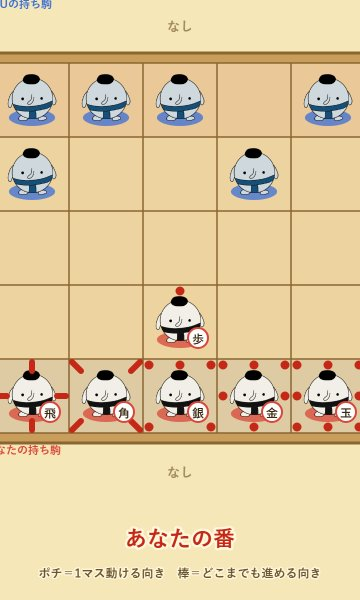
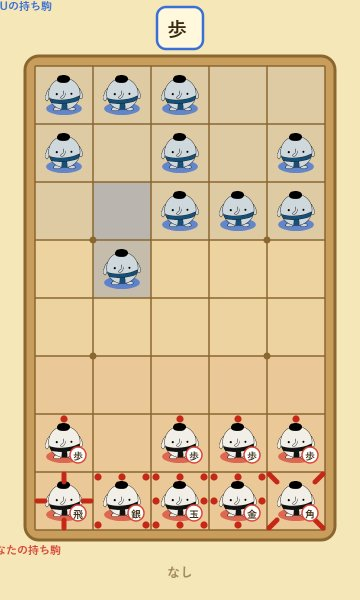
はなりきし将棋: 盤を5x8に、自陣3段・歩5枚・成れる段を3段に

diff --git a/shogi/index.html b/shogi/index.html
@@ -87,7 +87,7 @@
   }
 
   // ================= 将棋のルール =================
-  // 盤は 5x5。マスの値: 0=空、符号が持ち主（+が自分=下、-がCPU=上）、絶対値が駒
+  // 盤は 横5 x 縦8。マスの値: 0=空、符号が持ち主（+が自分=下、-がCPU=上）、絶対値が駒
   const P = 1, S = 2, G = 3, B = 4, R = 5, K = 6, PRO = 8;
   const NAME = { 1: '歩', 2: '銀', 3: '金', 4: '角', 5: '飛', 6: '玉', 9: 'と', 10: '全', 12: '馬', 13: '龍' };
   const LONG = { 1: '歩兵', 2: '銀将', 3: '金将', 4: '角行', 5: '飛車', 6: '玉将' };
@@ -99,29 +99,31 @@
     1: [[0], []], 2: [[0, 1, 7, 3, 5], []], 3: GOLD, 4: [[], [1, 3, 5, 7]], 5: [[], [0, 2, 4, 6]],
     6: [[0, 1, 2, 3, 4, 5, 6, 7], []], 9: GOLD, 10: GOLD, 12: [[0, 2, 4, 6], [1, 3, 5, 7]], 13: [[1, 3, 5, 7], [0, 2, 4, 6]],
   };
+  const N = 40;                 // マスの数（横5 x 縦8）
   const NB = [];
-  for (let i = 0; i < 25; i++) {
+  for (let i = 0; i < N; i++) {
     NB[i] = [];
     for (let d = 0; d < 8; d++) {
       const r = (i / 5 | 0) + DR[d], c = i % 5 + DC[d];
-      NB[i][d] = r < 0 || r > 4 || c < 0 || c > 4 ? -1 : r * 5 + c;
+      NB[i][d] = r < 0 || r > 7 || c < 0 || c > 4 ? -1 : r * 5 + c;
     }
   }
   const sgn = v => v > 0 ? 1 : v < 0 ? -1 : 0;
   const canPro = c => c === P || c === S || c === B || c === R;
-  const zone = (i, side) => side === 1 ? i < 5 : i >= 20;     // 一番奥の段
+  const zone = (i, side) => side === 1 ? i < 15 : i >= 25;    // 相手の陣地（奥の3段）。ここに入る・出ると成れる
+  const lastRow = (i, side) => side === 1 ? i < 5 : i >= 35;  // 一番奥の段（歩はここで必ず成る）
   const hi = side => side === 1 ? 0 : 1;
 
   // 指し手: { f: 元のマス（打つときは -1）, t: 行き先, p: 成るか, c: 打つ駒 }
-  function gen(st, side, out, capOnly) {
+  function gen(st, side, out, capOnly, noDrop) {
     const bd = st.bd;
     const add = (i, j, c) => {
       if (canPro(c) && (zone(i, side) || zone(j, side))) {
         out.push({ f: i, t: j, p: true });
-        if (!(c === P && zone(j, side))) out.push({ f: i, t: j, p: false });   // 歩は奥で必ず成る
+        if (!(c === P && lastRow(j, side))) out.push({ f: i, t: j, p: false });   // 歩は奥で必ず成る
       } else out.push({ f: i, t: j, p: false });
     };
-    for (let i = 0; i < 25; i++) {
+    for (let i = 0; i < N; i++) {
       const v = bd[i]; if (v * side <= 0) continue;
       const c = Math.abs(v), [stp, sl] = MOVES[c];
       for (const d0 of stp) {
@@ -138,14 +140,14 @@
         }
       }
     }
-    if (capOnly) return out;
+    if (capOnly || noDrop) return out;
     const h = st.h[hi(side)];
-    for (let c = 1; c <= 5; c++) if (h[c]) for (let j = 0; j < 25; j++) {
+    for (let c = 1; c <= 5; c++) if (h[c]) for (let j = 0; j < N; j++) {
       if (bd[j]) continue;
       if (c === P) {
-        if (zone(j, side)) continue;                                // 行き所のない歩
+        if (lastRow(j, side)) continue;                             // 行き所のない歩
         let nifu = false;
-        for (let k = j % 5; k < 25; k += 5) if (bd[k] === side * P) nifu = true;
+        for (let k = j % 5; k < N; k += 5) if (bd[k] === side * P) nifu = true;
         if (nifu) continue;                                          // 二歩
       }
       out.push({ f: -1, t: j, c });
@@ -170,7 +172,7 @@
   // ありうる並びをいくつか作って、それぞれで読んだ点数の平均で手を選ぶ
   function evaluate(st) {         // 下側(+)から見た点数
     let s = 0;
-    for (let i = 0; i < 25; i++) { const v = st.bd[i]; if (v) s += sgn(v) * VAL[Math.abs(v)]; }
+    for (let i = 0; i < N; i++) { const v = st.bd[i]; if (v) s += sgn(v) * VAL[Math.abs(v)]; }
     for (let c = 1; c <= 5; c++) s += (st.h[0][c] - st.h[1][c]) * VAL[c] * 0.9;
     return s;
   }
@@ -190,7 +192,7 @@
   const capVal = (st, m) => m.f >= 0 && st.bd[m.t] ? VAL[Math.abs(st.bd[m.t])] : 0;
   function search(st, side, depth, a, b) {
     if (depth === 0) return qsearch(st, side, a, b, 3);
-    const ms = gen(st, side, []);
+    const ms = gen(st, side, [], false, depth === 1);   // 読みの最後の1手では、駒を打つ手は読まない（速くするため）
     if (!ms.length) return -WIN;
     ms.sort((x, y) => capVal(st, y) - capVal(st, x));
     let best = -Infinity;
@@ -233,10 +235,10 @@
     if (!ms.length) return null;
     const boards = [];
     for (let s = 0; s < L.samples; s++) boards.push(sampleBoard(st, cands, counts));
-    const score = (m, depth) => boards.reduce((sum, sb) =>
-      sum + (takesKing(sb, m) ? WIN : -search(apply(sb, m, -1), 1, depth - 1, -Infinity, Infinity)), 0) / boards.length;
-    // 全部の手を浅く読み、よさそうな手だけを深く読む（速くするため）
-    let list = ms.map(m => ({ m, v: score(m, 1) }));
+    const score = (m, depth, bs = boards) => bs.reduce((sum, sb) =>
+      sum + (takesKing(sb, m) ? WIN : -search(apply(sb, m, -1), 1, depth - 1, -Infinity, Infinity)), 0) / bs.length;
+    // 全部の手を2つの並びだけで浅く読み、よさそうな手だけを全部の並びで深く読む（速くするため）
+    let list = ms.map(m => ({ m, v: score(m, 1, L.depth > 1 ? boards.slice(0, 2) : boards) }));
     if (L.depth > 1) {
       list.sort((x, y) => y.v - x.v);
       list = list.slice(0, L.depth > 2 ? 6 : 10).map(x => ({ m: x.m, v: score(x.m, L.depth) }));
@@ -261,7 +263,7 @@
       if (wasPro && !canPro(t)) continue;
       if (!canReach(wasPro ? t | PRO : t, a, b)) continue;
       if (nowPro && !canPro(t)) continue;
-      if (!nowPro && t === P && zone(b, 1)) continue;
+      if (!nowPro && t === P && lastRow(b, 1)) continue;
       m |= 1 << t;
     }
     return m || mask;
@@ -276,21 +278,24 @@
   const save = (k, v) => { try { localStorage.setItem(k, v); } catch {} };
   let best = load(BEST_KEY), streak = load(RUN_KEY);
 
-  const BX = 210, BY = 300, CELL = 74;
-  const cellX = i => BX + (i % 5 - 2) * CELL, cellY = i => BY + ((i / 5 | 0) - 2) * CELL;
-  const MAX_PLY = 200;                 // 100手ずつで決着しなければ引き分け
+  const BX = 210, BY = 350, CELL = 58;
+  const cellX = i => BX + (i % 5 - 2) * CELL, cellY = i => BY + ((i / 5 | 0) - 3.5) * CELL;
+  const MAX_PLY = 300;                 // 150手ずつで決着しなければ引き分け
   const ALL = 0b1111110;               // 歩〜玉 のどれでもありうる
 
   let scene = 'title', t = 0;
   // pcs: 盤上の駒 { side, c(成りも含む), cell, x, y, cand(CPUから見たありうる駒) }
   let pcs, hands, turn, sel, targets, promo, busy, ply, banner, lastMove, result, thinking, after, ghosts;
 
-  const DEFAULT_SETUP = [[24, K], [23, G], [22, S], [21, B], [20, R], [19, P]];
+  const MY_CAMP = [25, 26, 27, 28, 29, 30, 31, 32, 33, 34, 35, 36, 37, 38, 39];   // 下の3段
+  const DEFAULT_SETUP = [[37, K], [38, G], [36, S], [39, B], [35, R], [30, P], [31, P], [32, P], [33, P], [34, P]];   // 1人10枚（歩は5枚）
+  const shuffled = a => a.slice().sort(() => Math.random() - 0.5);
   function randomCpuSetup() {
-    // CPU の陣形: 玉は一番奥、ほかは上2段のどこか
+    // CPU の陣形: 玉は一番奥、歩は前の2段のどこか、ほかは上3段の残り
     const k = Math.floor(Math.random() * 5);
-    const rest = [0, 1, 2, 3, 4, 5, 6, 7, 8, 9].filter(c => c !== k).sort(() => Math.random() - 0.5);
-    return [[k, K], [rest[0], R], [rest[1], B], [rest[2], G], [rest[3], S], [rest[4], P]];
+    const pawns = shuffled([5, 6, 7, 8, 9, 10, 11, 12, 13, 14]).slice(0, 5);
+    const rest = shuffled([...Array(15).keys()].filter(c => c !== k && !pawns.includes(c)));
+    return [[k, K], [rest[0], R], [rest[1], B], [rest[2], G], [rest[3], S], ...pawns.map(c => [c, P])];
   }
   const mkPiece = (side, c, cell, cand) => ({ side, c, cell, x: cellX(cell), y: cellY(cell), cand, hit: 0 });
 
@@ -304,7 +309,7 @@
     scene = 'setup';
   }
   function shuffleSetup() {
-    const cells = [15, 16, 17, 18, 19, 20, 21, 22, 23, 24].sort(() => Math.random() - 0.5);
+    const cells = shuffled(MY_CAMP);
     pcs.filter(p => p.side === 1).forEach((p, i) => { p.cell = cells[i]; });
     sel = null;
   }
@@ -312,7 +317,7 @@
 
   const pieceAt = i => pcs.find(p => p.cell === i);
   const state = () => {
-    const bd = new Array(25).fill(0);
+    const bd = new Array(N).fill(0);
     pcs.forEach(p => { bd[p.cell] = p.side * p.c; });
     return { bd, h: hands };
   };
@@ -380,9 +385,9 @@
 
   // ================= 入力 =================
   let buttons = [];
-  const HAND_Y = { 1: 524, '-1': 78 };
+  const HAND_Y = { 1: 624, '-1': 80 };
   function hitCell(x, y) {
-    for (let i = 0; i < 25; i++) if (Math.abs(x - cellX(i)) < CELL / 2 && Math.abs(y - cellY(i)) < CELL / 2) return i;
+    for (let i = 0; i < N; i++) if (Math.abs(x - cellX(i)) < CELL / 2 && Math.abs(y - cellY(i)) < CELL / 2) return i;
     return -1;
   }
   function handChips(side) {     // 持ち駒の並び（表示とタップの両方で使う）
@@ -397,7 +402,7 @@
     if (promo) return;
     const c = hitCell(x, y);
     if (scene === 'setup') {
-      if (c < 15) { sel = null; return; }
+      if (c < 25) { sel = null; return; }
       const p = pieceAt(c);
       if (sel) {
         const sp = pieceAt(sel.cell);
@@ -464,50 +469,51 @@
   }
 
   function drawBoard(g) {
-    const x0 = BX - CELL * 2.5, y0 = BY - CELL * 2.5, S5 = CELL * 5;
-    rrect(g, x0 - 10, y0 - 10, S5 + 20, S5 + 20, 14); g.fillStyle = '#c99d5c'; g.fill(); g.lineWidth = 3; g.strokeStyle = '#8a6630'; g.stroke();
-    g.fillStyle = '#ecd3a0'; g.fillRect(x0, y0, S5, S5);
-    // 成れる段
-    g.fillStyle = 'rgba(216,71,58,.08)'; g.fillRect(x0, y0, S5, CELL);
-    g.fillStyle = 'rgba(58,111,216,.08)'; g.fillRect(x0, y0 + CELL * 4, S5, CELL);
-    if (scene === 'setup') { g.fillStyle = 'rgba(255,220,80,.3)'; g.fillRect(x0, y0 + CELL * 3, S5, CELL * 2); }
+    const x0 = BX - CELL * 2.5, y0 = BY - CELL * 4, BW = CELL * 5, BH = CELL * 8;
+    rrect(g, x0 - 10, y0 - 10, BW + 20, BH + 20, 14); g.fillStyle = '#c99d5c'; g.fill(); g.lineWidth = 3; g.strokeStyle = '#8a6630'; g.stroke();
+    g.fillStyle = '#ecd3a0'; g.fillRect(x0, y0, BW, BH);
+    // それぞれの陣地（3段）
+    g.fillStyle = 'rgba(58,111,216,.08)'; g.fillRect(x0, y0, BW, CELL * 3);
+    g.fillStyle = 'rgba(216,71,58,.08)'; g.fillRect(x0, y0 + CELL * 5, BW, CELL * 3);
+    if (scene === 'setup') { g.fillStyle = 'rgba(255,220,80,.3)'; g.fillRect(x0, y0 + CELL * 5, BW, CELL * 3); }
     if (lastMove) for (const c of [lastMove.f, lastMove.t]) if (c >= 0) {
       g.fillStyle = lastMove.side === 1 ? 'rgba(216,71,58,.16)' : 'rgba(58,111,216,.22)';
       g.fillRect(cellX(c) - CELL / 2, cellY(c) - CELL / 2, CELL, CELL);
     }
     g.strokeStyle = '#8a6630'; g.lineWidth = 1.5;
-    for (let k = 0; k <= 5; k++) {
-      g.beginPath(); g.moveTo(x0 + k * CELL, y0); g.lineTo(x0 + k * CELL, y0 + S5); g.stroke();
-      g.beginPath(); g.moveTo(x0, y0 + k * CELL); g.lineTo(x0 + S5, y0 + k * CELL); g.stroke();
-    }
+    for (let k = 0; k <= 5; k++) { g.beginPath(); g.moveTo(x0 + k * CELL, y0); g.lineTo(x0 + k * CELL, y0 + BH); g.stroke(); }
+    for (let k = 0; k <= 8; k++) { g.beginPath(); g.moveTo(x0, y0 + k * CELL); g.lineTo(x0 + BW, y0 + k * CELL); g.stroke(); }
+    // 陣地の境目に星
+    g.fillStyle = '#8a6630';
+    for (const k of [3, 5]) for (const j of [1, 4]) { g.beginPath(); g.arc(x0 + j * CELL, y0 + k * CELL, 3.5, 0, Math.PI * 2); g.fill(); }
   }
 
   // 自分の駒のまわりに、動ける向きのポチ（1マス）と棒（どこまでも）
   function drawDots(g, c, x, y, a = 1) {
     const [stp, sl] = MOVES[c];
     g.save(); g.globalAlpha = a; g.fillStyle = '#c62818'; g.strokeStyle = '#c62818'; g.lineCap = 'round';
-    for (const d of stp) { g.beginPath(); g.arc(x + DC[d] * 31, y + DR[d] * 31, 4.5, 0, Math.PI * 2); g.fill(); }
-    g.lineWidth = 6;
-    for (const d of sl) { g.beginPath(); g.moveTo(x + DC[d] * 25, y + DR[d] * 25); g.lineTo(x + DC[d] * 34, y + DR[d] * 34); g.stroke(); }
+    for (const d of stp) { g.beginPath(); g.arc(x + DC[d] * 24, y + DR[d] * 24, 3.6, 0, Math.PI * 2); g.fill(); }
+    g.lineWidth = 5;
+    for (const d of sl) { g.beginPath(); g.moveTo(x + DC[d] * 19, y + DR[d] * 19); g.lineTo(x + DC[d] * 27, y + DR[d] * 27); g.stroke(); }
     g.restore();
   }
   function nameChip(g, s, x, y, side) {
-    g.beginPath(); g.arc(x, y, 10, 0, Math.PI * 2); g.fillStyle = '#fff'; g.fill();
-    g.lineWidth = 2; g.strokeStyle = SIDE_COLOR[side]; g.stroke();
-    text(g, s, x, y + 1, 12, '#3a2a10', 'rgba(0,0,0,0)');
+    g.beginPath(); g.arc(x, y, 8, 0, Math.PI * 2); g.fillStyle = '#fff'; g.fill();
+    g.lineWidth = 1.5; g.strokeStyle = SIDE_COLOR[side]; g.stroke();
+    text(g, s, x, y + 1, 10, '#3a2a10', 'rgba(0,0,0,0)');
   }
 
   function drawPiece(g, p, a = 1, face = 'normal') {
-    const r = 22;
+    const r = 17;
     g.save(); g.globalAlpha = a * 0.75;
     g.beginPath(); g.ellipse(p.x, p.y + r * 0.8, r * 1.05, r * 0.38, 0, 0, Math.PI * 2); g.fillStyle = SIDE_COLOR[p.side]; g.fill();
     g.restore();
     if (a === 1 && sel && sel.cell === p.cell && p.side === 1) {
-      g.beginPath(); g.arc(p.x, p.y, r + 12, 0, Math.PI * 2); g.lineWidth = 4; g.strokeStyle = '#ffcf00'; g.stroke();
+      g.beginPath(); g.arc(p.x, p.y, r + 10, 0, Math.PI * 2); g.lineWidth = 3; g.strokeStyle = '#ffcf00'; g.stroke();
     }
     drawSumo(g, pieceFaces(p.side, p.c), face, p.x, p.y, r, a);
-    if (p.side === 1) { drawDots(g, p.c, p.x, p.y, a); nameChip(g, NAME[p.c], p.x + 18, p.y + 16, 1); }
-    else if (scene === 'result') nameChip(g, NAME[p.c], p.x + 18, p.y + 16, -1);   // 終わったら相手の駒を明かす
+    if (p.side === 1) { drawDots(g, p.c, p.x, p.y, a); nameChip(g, NAME[p.c], p.x + 14, p.y + 12, 1); }
+    else if (scene === 'result') nameChip(g, NAME[p.c], p.x + 14, p.y + 12, -1);   // 終わったら相手の駒を明かす
   }
 
   function drawPieces(g) {
@@ -524,8 +530,8 @@
     for (const m of targets) {
       if (seen.has(m.t)) continue; seen.add(m.t);
       const x = cellX(m.t), y = cellY(m.t);
-      if (pieceAt(m.t)) { g.beginPath(); g.arc(x, y, 33, 0, Math.PI * 2); g.lineWidth = 4; g.strokeStyle = 'rgba(230,40,30,.85)'; g.stroke(); }
-      else { g.beginPath(); g.arc(x, y, 11, 0, Math.PI * 2); g.fillStyle = 'rgba(60,170,80,.75)'; g.fill(); }
+      if (pieceAt(m.t)) { g.beginPath(); g.arc(x, y, 26, 0, Math.PI * 2); g.lineWidth = 3.5; g.strokeStyle = 'rgba(230,40,30,.85)'; g.stroke(); }
+      else { g.beginPath(); g.arc(x, y, 9, 0, Math.PI * 2); g.fillStyle = 'rgba(60,170,80,.75)'; g.fill(); }
     }
   }
 
@@ -560,18 +566,18 @@
     drawBoard(g);
     drawTargets(g);
     drawPieces(g);
-    drawHands(g);
+    if (scene !== 'setup') drawHands(g);
     if (scene === 'setup') {
-      text(g, '下の2段で陣形を組もう', BX, 572, 19, '#b71c1c');
-      text(g, '駒をタップ → 置きたいマスをタップ（入れ替えもOK）', BX, 598, 13, '#6b5530');
-      button(g, 'おまかせ', '', 30, 622, 140, 52, '#fff', shuffleSetup);
-      button(g, 'この陣形で始める', '', 186, 622, 204, 52, '#9dffb0', startGame, 19);
+      text(g, '下の3段で陣形を組もう', BX, 80, 19, '#b71c1c');
+      text(g, '駒をタップ → 置きたいマスをタップ（入れ替えもOK）', BX, 612, 13, '#6b5530');
+      button(g, 'おまかせ', '', 30, 636, 140, 48, '#fff', shuffleSetup);
+      button(g, 'この陣形で始める', '', 186, 636, 204, 48, '#9dffb0', startGame, 19);
       return;
     }
     if (scene === 'play') {
       const msg = thinking ? 'CPUが考え中…' : busy > 0 ? '' : human() ? 'あなたの番' : '';
-      if (msg) text(g, msg, BX, 590, 22, human() ? '#c62818' : '#2350b0');
-      if (human() && !sel && ply < 2 && !busy) text(g, 'ポチ＝1マス動ける向き　棒＝どこまでも進める向き', BX, 625, 12, '#6b5530');
+      if (msg) text(g, msg, BX, 664, 20, human() ? '#c62818' : '#2350b0');
+      if (human() && !sel && ply < 2 && !busy) text(g, 'ポチ＝1マス動ける向き　棒＝どこまでも進める向き', BX, 688, 12, '#6b5530');
     }
     if (banner) {
       const k = Math.min(1, banner.t * 6), s = 1 + (1 - k) * 0.6, a = Math.min(1, (1.4 - banner.t) * 4);
@@ -596,7 +602,7 @@
     g.fillStyle = 'rgba(58,42,16,.5)'; g.fillRect(0, 0, W, H);
     rrect(g, 30, 150, W - 60, 400, 22); g.fillStyle = '#fff8dc'; g.fill(); g.lineWidth = 4; g.strokeStyle = '#3a2a10'; g.stroke();
     let title, lines = [], btn;
-    const how = r.how === 'king' ? (r.winner === 1 ? '相手の玉を取った' : '玉を取られた') : r.how === 'stuck' ? '動ける手がなくなった' : '200手で引き分け';
+    const how = r.how === 'king' ? (r.winner === 1 ? '相手の玉を取った' : '玉を取られた') : r.how === 'stuck' ? '動ける手がなくなった' : '300手で引き分け';
     if (r.winner === 1) {
       title = '勝ち！'; lines.push(how);
       if (rankOfStreak(r.to) > rankOfStreak(r.from)) lines.push(`${RANKS[rankOfStreak(r.from)].name} → ${RANKS[rankOfStreak(r.to)].name} に昇進！`);
@@ -633,7 +639,7 @@
     const rr = RANKS[rankOfStreak(streak)];
     button(g, '対局する（CPU）', `いま ${rr.name}・${streak}連勝 ／ 最高 ${best}連勝`, 60, 380, W - 120, 68, '#ffe08a', newSetup);
     button(g, 'あそびかた', '', 60, 470, W - 120, 52, '#fff', () => { scene = 'rules'; });
-    text(g, '5×5の将棋。相手の駒は何か分からない！', W / 2, 570, 15, '#6b5530');
+    text(g, '5×8の将棋。相手の駒は何か分からない！', W / 2, 570, 15, '#6b5530');
     text(g, '勝つたびに番付が上がり、CPUも強くなる', W / 2, 598, 14, '#6b5530');
   }
 
@@ -641,15 +647,15 @@
     g.fillStyle = '#f6e7b8'; g.fillRect(0, 0, W, H);
     text(g, 'あそびかた', W / 2, 46, 30, '#b71c1c');
     const L = [
-      ['盤と駒', '5×5の盤。駒は 玉・飛・角・金・銀・歩'],
-      ['', 'の6枚ずつ。動き方はふつうの将棋と同じ。'],
-      ['陣形', '始める前に、下の2段へ自由に並べる。'],
+      ['盤と駒', '横5×縦8の盤。駒は 玉・飛・角・金・銀'],
+      ['', 'と歩5枚の10枚ずつ。動きは将棋と同じ。'],
+      ['陣形', '始める前に、下の3段へ自由に並べる。'],
       ['見えない', '相手の駒はみんな同じはなりきし。'],
       ['', '何の駒かは、動きを見て推理しよう。'],
       ['ポチ', '自分の駒のまわりのポチ＝1マス動ける向き、'],
       ['', '棒＝どこまでも進める向き。'],
       ['持ち駒', '取った駒は打てる（二歩はだめ）。'],
-      ['成り', '一番奥の段に入る・出るときに成れる。'],
+      ['成り', '相手の陣地（奥の3段）に入る・出ると成れる。'],
       ['', '成った駒は体が赤くなる（相手のも）。'],
       ['勝ち', '王手はなし。相手の玉を取ったら勝ち！'],
       ['', '自分の玉も、取られないように守ろう。'],

diff --git a/shogi/sw.js b/shogi/sw.js
@@ -1,5 +1,5 @@
 // オフラインでも遊べるようにキャッシュする。更新したら VERSION を上げる。
-const VERSION = 'shogi-v1';
+const VERSION = 'shogi-v2';
 const FILES = [
   './', './index.html', './manifest.webmanifest',
   '../parts/body_color.png', '../parts/mawashi.png', '../parts/body_line.png',
